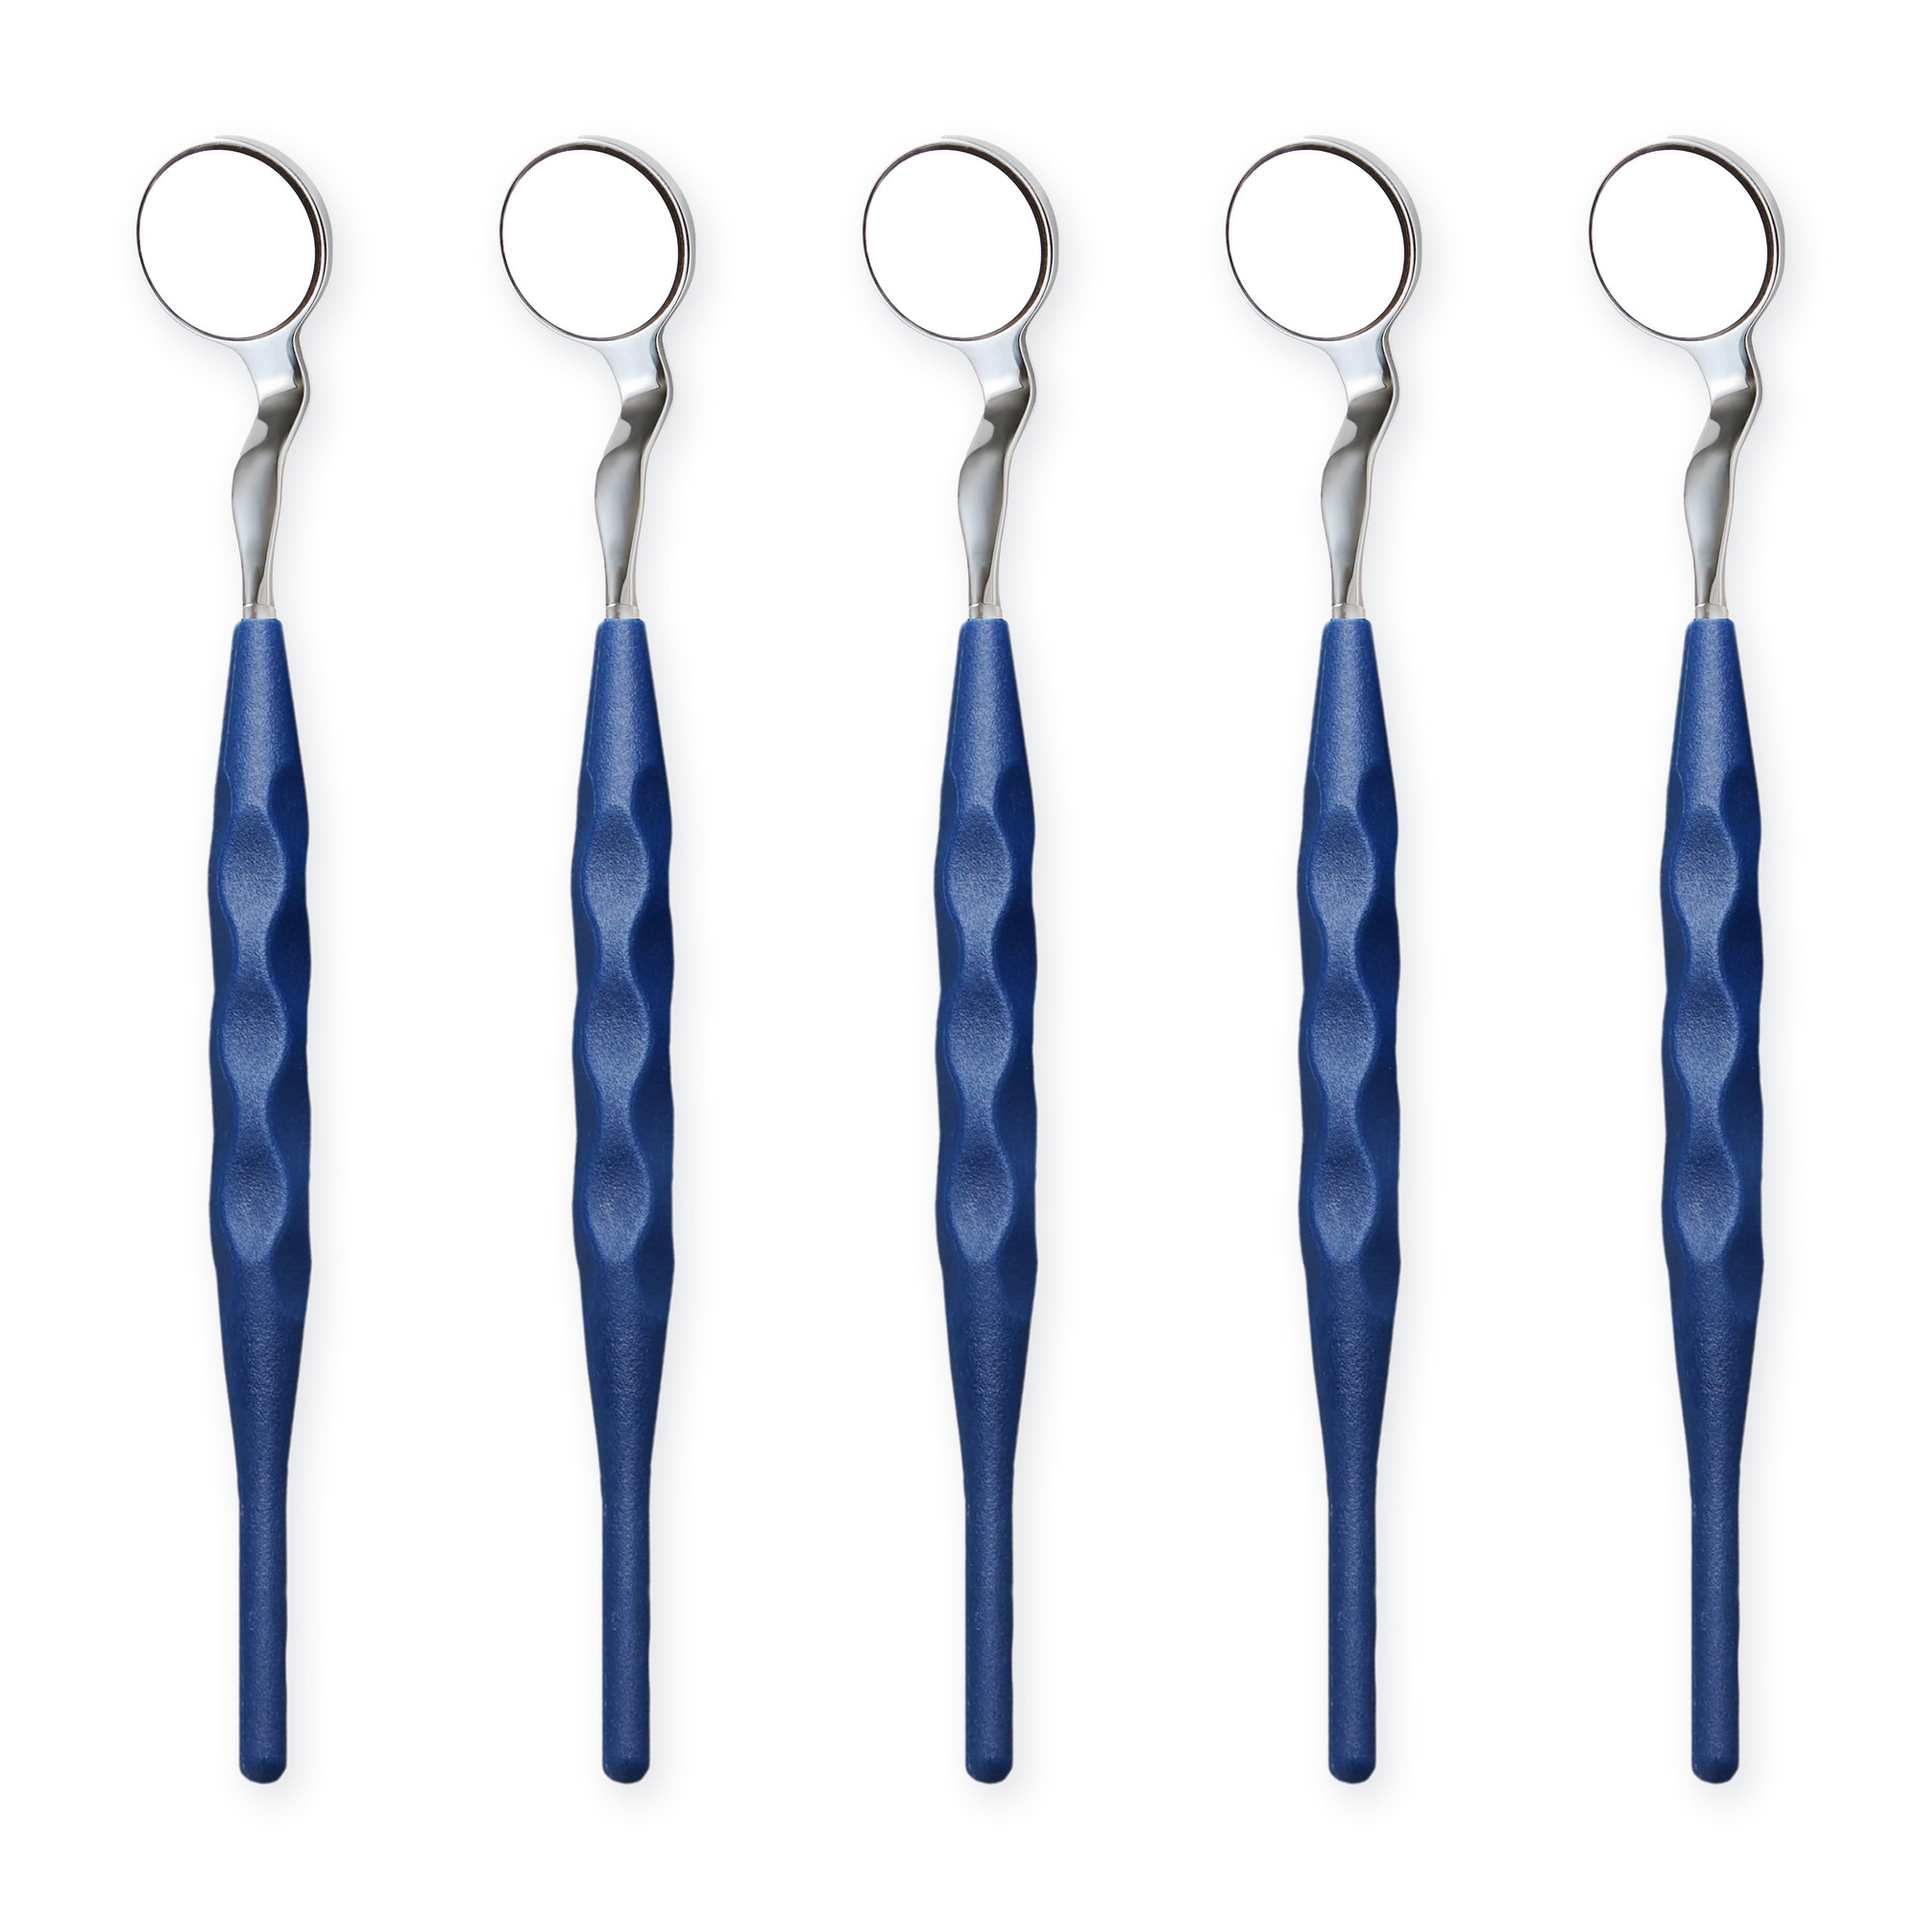
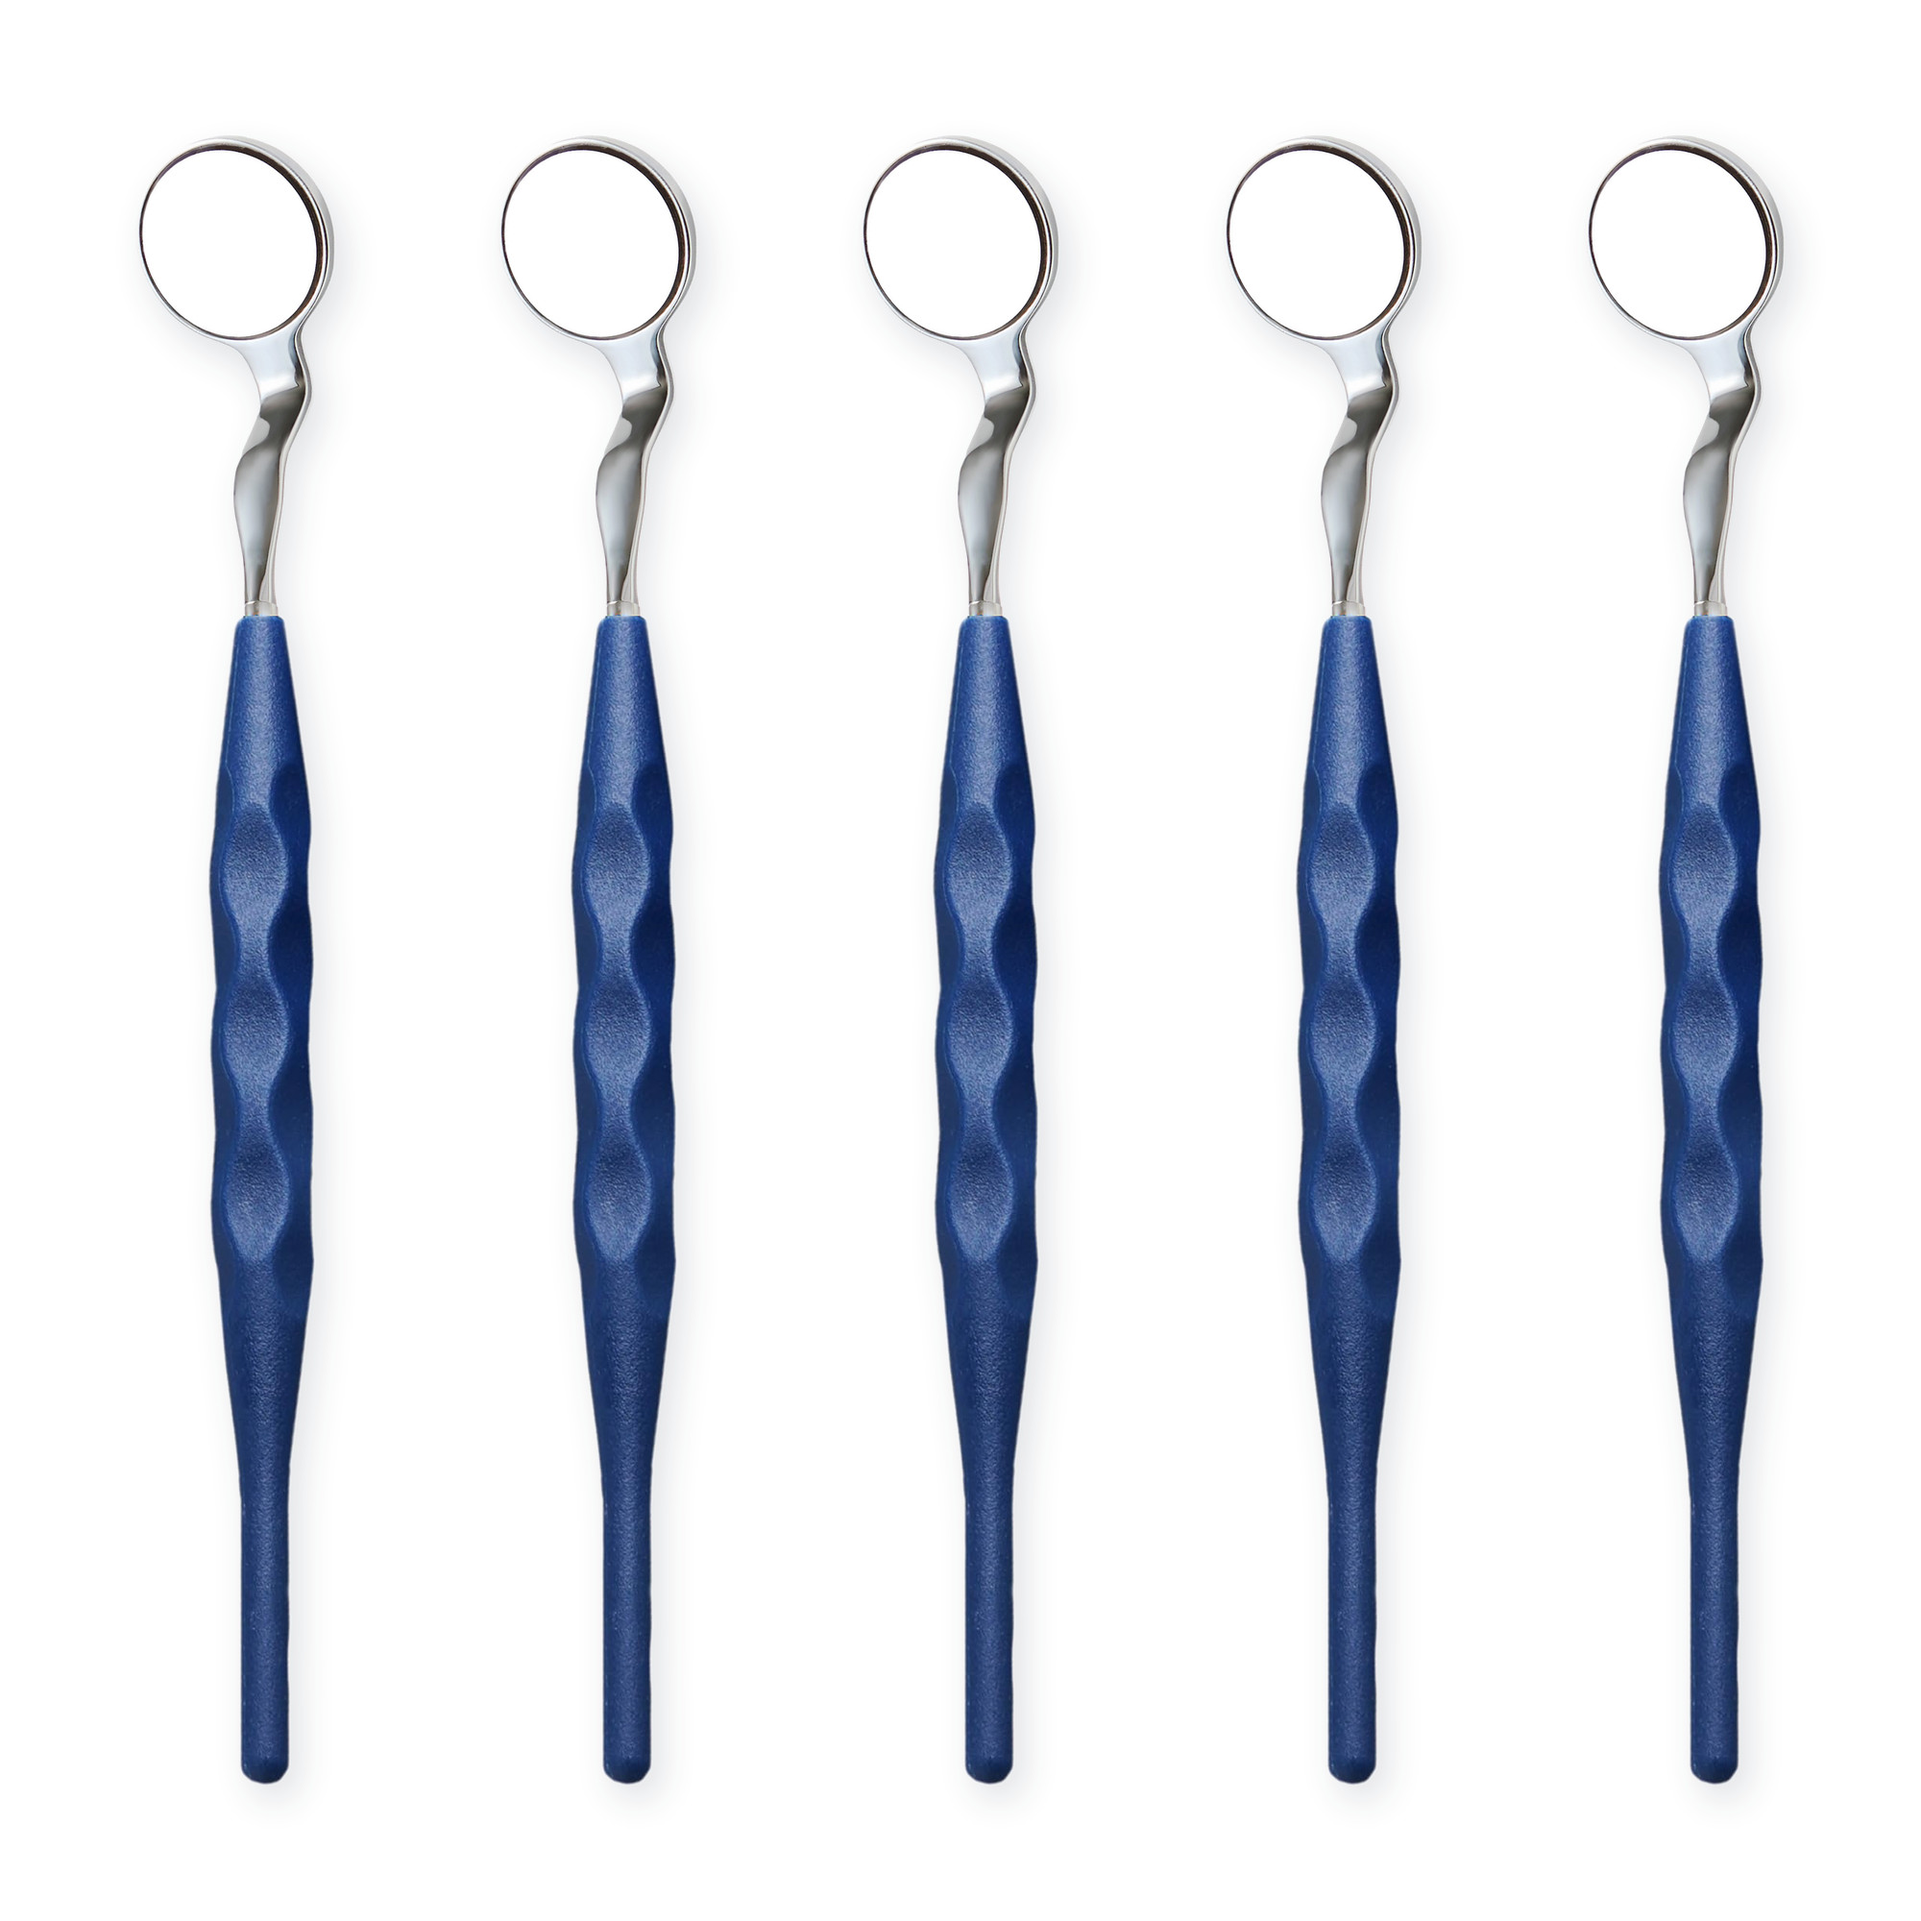
Double-Sided heads main face-on; Double-Sided rim band no longer cut square
- The heads main showed five heads edge-on (no mirror visible). Each head is now the real
  Double-Sided head, neck and collar from ILLUCO's Double-Sided photo with the real
  cone-socket thread of the single-sided head, five in a row like the single-sided main.
- The shadow peel no longer touches the head, and the faint end of the rim band fades in,
  so the top of every Double-Sided head follows the photo.

Claude-Session: https://claude.ai/code/session_01JtZ82pE4mjN6vq7dUwjYQe

diff --git a/scripts/image_kit/designs.py b/scripts/image_kit/designs.py
@@ -263,6 +263,16 @@ def ds_head_on_shank(color):
     gf = g.astype(np.float64)
     std = np.sqrt(np.maximum(_box_mean(gf * gf, 3) - _box_mean(gf, 3) ** 2, 0))
     shadowlike = (g >= 205) & (g <= 240) & (std < 3.0) & (arr.max(axis=2) - g < 12)
+    # ...but not off the head: the polished side band of the rim is as light and smooth as the shadow
+    white = g >= 250
+    fseed = np.zeros_like(obj)
+    fseed[654, 880] = True  # the left mirror's face (measured centre 880, 654; radius about 190)
+    face = _grow(white & ~_border_connected(white), fseed)
+    assert face.sum() > 80000, 'mirror face not found'
+    fy, fx = np.nonzero(face)
+    yy, xx = np.mgrid[0:g.shape[0], 0:g.shape[1]]
+    head = (xx - fx.mean()) ** 2 + (yy - fy.mean()) ** 2 <= (1.25 ** 2) * face.sum() / np.pi
+    shadowlike &= ~head
     for _ in range(80):
         peel = comp & ~K._erode(comp) & shadowlike
         if not peel.any():
@@ -270,7 +280,12 @@ def ds_head_on_shank(color):
         comp &= ~peel
     comp = ~_border_connected(~comp)
     comp = _grow(_morph(_morph(comp, 3, K._erode), 3, K._dilate) & comp, seed)
-    alpha = Image.fromarray((comp * 255).astype(np.uint8), 'L').filter(ImageFilter.GaussianBlur(1.0))
+    # on the head, the faint end of the rim band is lighter than the 228 cut: fade it in rather than cut it square
+    # (smooth grey, i.e. shadow, stays out)
+    soft = head & _morph(comp, 10, K._dilate) & ~comp & (g < 252) & ~((std < 3.0) & (g >= 205))
+    a_f = np.where(comp, 255.0, 0.0)
+    a_f = np.where(soft, np.clip((252 - g) / 24.0, 0, 1) * 255, a_f)
+    alpha = Image.fromarray(a_f.astype(np.uint8), 'L').filter(ImageFilter.GaussianBlur(1.0))
     rgba = im.convert('RGBA')
     rgba.putalpha(alpha)
     rgba = K.trim(rgba)
@@ -351,21 +366,73 @@ def main_heads_row(n=5):
     return img
 
 
-def main_ds_heads():
-    """Double-Sided heads 5-pack: five cutouts of the real IDM-3CD41H head photo, stacked."""
-    hd = A.double_head()
-    s = (W * 0.80) / hd.width
-    a = K.scale(hd, s)
+def _row_widths(rgba):
+    a = np.asarray(rgba.getchannel('A')) > 128
+    return np.array([(np.nonzero(r)[0][-1] - np.nonzero(r)[0][0] + 1) if r.any() else 0 for r in a])
+
+
+@lru_cache(maxsize=None)
+def single_head_upright():
+    """The real single-sided head photo stood upright (shank axis vertical, mirror on top)."""
+    sh = A.single_head()
+    a = np.asarray(sh.getchannel('A')) > 128
+    y0 = int(a.shape[0] * 0.55)
+    ys, xs = np.nonzero(a[y0:])                      # shank and thread only
+    ys = ys + y0
+    evals, evecs = np.linalg.eigh(np.cov(np.vstack([xs - xs.mean(), ys - ys.mean()])))
+    vx, vy = evecs[:, np.argmax(evals)]
+    up = K.trim(K.rotate_rgba(sh, np.degrees(np.arctan2(vy, vx)) - 90))
+    w = _row_widths(up)
+    if w[: len(w) // 3].max() < w[-len(w) // 3:].max():
+        up = up.rotate(180, expand=True)
+    return up
+
+
+@lru_cache(maxsize=None)
+def ds_head_full():
+    """One whole Double-Sided replacement head seen face-on: the real Double-Sided head, neck and shank
+    (ds_head_on_shank) with the cone-socket thread below its collar. The thread is the real one from the
+    single-sided head photo: both heads are Size 4 (22 mm) on the same cone socket, so it is scaled by the ratio
+    of the two mirror widths (at that scale it matches the Double-Sided collar, checked below). The only photo
+    of the bare Double-Sided head is edge-on, which hides the mirror face."""
+    top = ds_head_on_shank('lb')
+    sh = single_head_upright()
+    w = _row_widths(sh)
+    n = len(w)
+    # the thread starts where the shank steps down to it: the first sharp narrowing in the lower third
+    # (the tip of the thread, at the very bottom, is the other one)
+    lo = int(n * 0.66)
+    step = w[lo:n - 12].astype(int) - w[lo + 6:n - 6].astype(int)
+    i = int(np.nonzero(step > 15)[0][0]) + lo
+    thread_w = np.median(w[i + 12:n - 15])
+    drop = next(r for r in range(i, n) if w[r] <= thread_w + 6)
+    thread = sh.crop((0, drop, sh.width, sh.height))
+    s = _widest(top, int(top.height * 0.5)) / _widest(sh, int(n * 0.45))
+    thread = K.trim(K.scale(thread, s))
+    tw = np.median(_row_widths(thread)[2:-2])
+    lo_, hi_ = _span(top, top.height - 2)
+    assert 0.45 < tw / (hi_ - lo_ + 1) < 0.85, 'thread does not fit the collar'
+    ct = (lo_ + hi_) / 2
+    cb = sum(_span(thread, 1)) / 2
+    wd = 2 * max(top.width, thread.width)
+    out = Image.new('RGBA', (wd, top.height + thread.height), (255, 255, 255, 0))
+    out.alpha_composite(thread, (int(round(wd / 2 - cb)), top.height))
+    out.alpha_composite(top, (int(round(wd / 2 - ct)), 0))
+    return K.trim(out)
+
+
+def main_ds_heads(n=5):
+    """Double-Sided heads 5-pack, product only and face-on (ds_head_full x5), same layout as the single-sided
+    heads main so the heads family reads as one set."""
+    hd = ds_head_full()
+    a = K.scale(hd, int(H * 0.74) / hd.height)
     img = white()
-    n = 5
-    dy = 250
-    dx = 34
-    total_h = a.height + dy * (n - 1)
-    total_w = a.width + dx * (n - 1)
-    x0 = (W - total_w) // 2
-    y0 = (H - total_h) // 2
+    span = int(W * 0.88)
+    step = (span - a.width) / (n - 1)
+    x0 = (W - span) / 2
+    y = (H - a.height) / 2
     for i in range(n):
-        K.paste(img, a, (x0 + dx * i, y0 + dy * i), shadow=(10, 16, 16, 0.14))
+        K.paste(img, a, (x0 + step * i, y), shadow=(8, 12, 14, 0.12))
     return img
 
 

diff --git a/scripts/image_kit/build_kit.py b/scripts/image_kit/build_kit.py
@@ -72,10 +72,14 @@ REG = {
     'main_heads_ss': (lambda: D.main_heads_row(), 'new (5 cutouts of ' + E + U['single_head'] + ')', 'ready',
                       'Product only on pure white (owner, 11/23): five cutouts of the real single-sided head photo '
                       'side by side. Replaces the box + heads shot.'),
-    'main_heads_ds': (lambda: D.main_ds_heads(), 'new (5 cutouts of ' + E + U['double_head'] + ')', 'needs reshoot',
-                      'IDM-3CD41H has no multi-head photo; composite of 5 copies of ILLUCO\'s single edge-on head '
-                      'photo shows the full count on pure white. Usable stopgap, but the mirror faces are not '
-                      'visible: reshoot 5 heads face-on.'),
+    'main_heads_ds': (lambda: D.main_ds_heads(),
+                      'new (Double-Sided head from ' + E + U['ds_main_lb'] + ' with the thread from ' + E
+                      + U['single_head'] + ', x5)', 'ready',
+                      'Product only on pure white, face-on (owner, 11/23). The only photo of the bare Double-Sided '
+                      'head is edge-on and hides the mirror, so each head is the real Double-Sided head, neck and '
+                      'collar from the Double-Sided mirror photo with the real cone-socket thread of the '
+                      'single-sided head below it (both Size 4, same socket; scaled by the mirror widths). Same '
+                      'layout as the single-sided heads main. A photo of 5 real heads face-on would be stronger.'),
     # 02 WHAT'S IN THE BOX -----------------------------------------------------------------
     'box_single_lb': (lambda: D.in_the_box(A.img('single_lb_main'), ['1 mirror', '+ 1 handle'],
                                            ['1 × Size 4 (22 mm) UHD mirror head', '1 × Light Blue ergonomic handle'],

diff --git a/image_kit/README.md b/image_kit/README.md
@@ -39,7 +39,7 @@ python3 -I scripts/image_kit/build_kit.py            # writes all images, manife
 
 | Slot | Re-used as-is | New / corrected |
 |---|---|---|
-| 01 main | Single LB `617bfZwQclL`, single DB `61FcYqxQdHL`, kit DB `71549oTdxFL` (1X only) | Every main is the product alone on pure white: no box, no text (owner, 11/23). Kit LB: 5 cutouts of the single LB photo. Kit DB 2X/3X (`main_alt_2x3x`): 5 cutouts of the front mirror of `71549oTdxFL`, because Amazon will not attach the 1X photo to a second ASIN (error 100560). Double-Sided LB/DB: the real Double-Sided head and shank from main.jpg / main_db.jpg seated on the real handle of the same colour, 5 in a row (no photo shows a whole Double-Sided mirror). Grand LB/DB: 2 cutouts of the full Grand mirror from grand-01 / grand-01_db. Single-sided heads: 5 cutouts of the single-head photo. Double-sided heads: 5 cutouts of the IDM-3CD41H head photo (needs reshoot) |
+| 01 main | Single LB `617bfZwQclL`, single DB `61FcYqxQdHL`, kit DB `71549oTdxFL` (1X only) | Every main is the product alone on pure white: no box, no text (owner, 11/23). Kit LB: 5 cutouts of the single LB photo. Kit DB 2X/3X (`main_alt_2x3x`): 5 cutouts of the front mirror of `71549oTdxFL`, because Amazon will not attach the 1X photo to a second ASIN (error 100560). Double-Sided LB/DB: the real Double-Sided head and shank from main.jpg / main_db.jpg seated on the real handle of the same colour, 5 in a row (no photo shows a whole Double-Sided mirror). Grand LB/DB: 2 cutouts of the full Grand mirror from grand-01 / grand-01_db. Single-sided heads: 5 cutouts of the single-head photo. Double-sided heads: 5 face-on heads, each the real Double-Sided head from main.jpg with the real cone-socket thread of the single head (the only bare Double-Sided head photo is edge-on and hides the mirror) |
 | 02 in the box | dsdm-03 / dsdm-03_db (Double-Sided, correct count and colour) | Count callouts for single (1 mirror + 1 handle), 5-pack (5 heads + 5 handles + care guide), Grand (2 + 2 + care guide), heads (5 replacement heads, handles not included) |
 | 03 key benefit | none | Corrected redraws of the copy card in 7121KSv2hrL, 71fDe5PolUL, 71f0mMI002L, dsdm-01(_db), grand-01(_db), each now led by "Ultra High Definition" and with a "5-Minute Autoclave" item; new "Ultra High Definition" card for double-sided heads |
 | 04 | none | "2X & 3X: see fine detail larger" guide (2X/3X marked premium, 1X standard; uses ILLUCO's view circles), Size 4 vs Grand Size 10 at true 22 : 34 scale, both-faces diagram |
@@ -89,7 +89,7 @@ python3 -I scripts/image_kit/build_kit.py            # writes all images, manife
 2. **Double-Sided 5-pack**, both colours: 5 assembled mirrors full length on white (every existing photo crops
    the handles; the current main seats the real Double-Sided head on the real handle), plus a face-on shot of
    the double-sided head.
-3. **Double-sided heads IDM-3CD41H**: 5 heads face-on (only one edge-on head photo exists); status `needs reshoot`.
+3. **Double-sided heads IDM-3CD41H**: 5 heads face-on. The only photo of the bare head is edge-on, so the current main is a composite (the Double-Sided head from main.jpg with the single head's thread).
 4. **Light Blue 5-pack**: a true-colour photo. The only hi-res Light Blue kit image (Shopify `light_blue.jpg`) is
    a recolour of the Dark Blue shot and renders royal blue, darker than the Light Blue handle in the single and
    Grand photos (the Double-Sided box shot is similar); the Amazon Light Blue main exists only at 500 px. One
